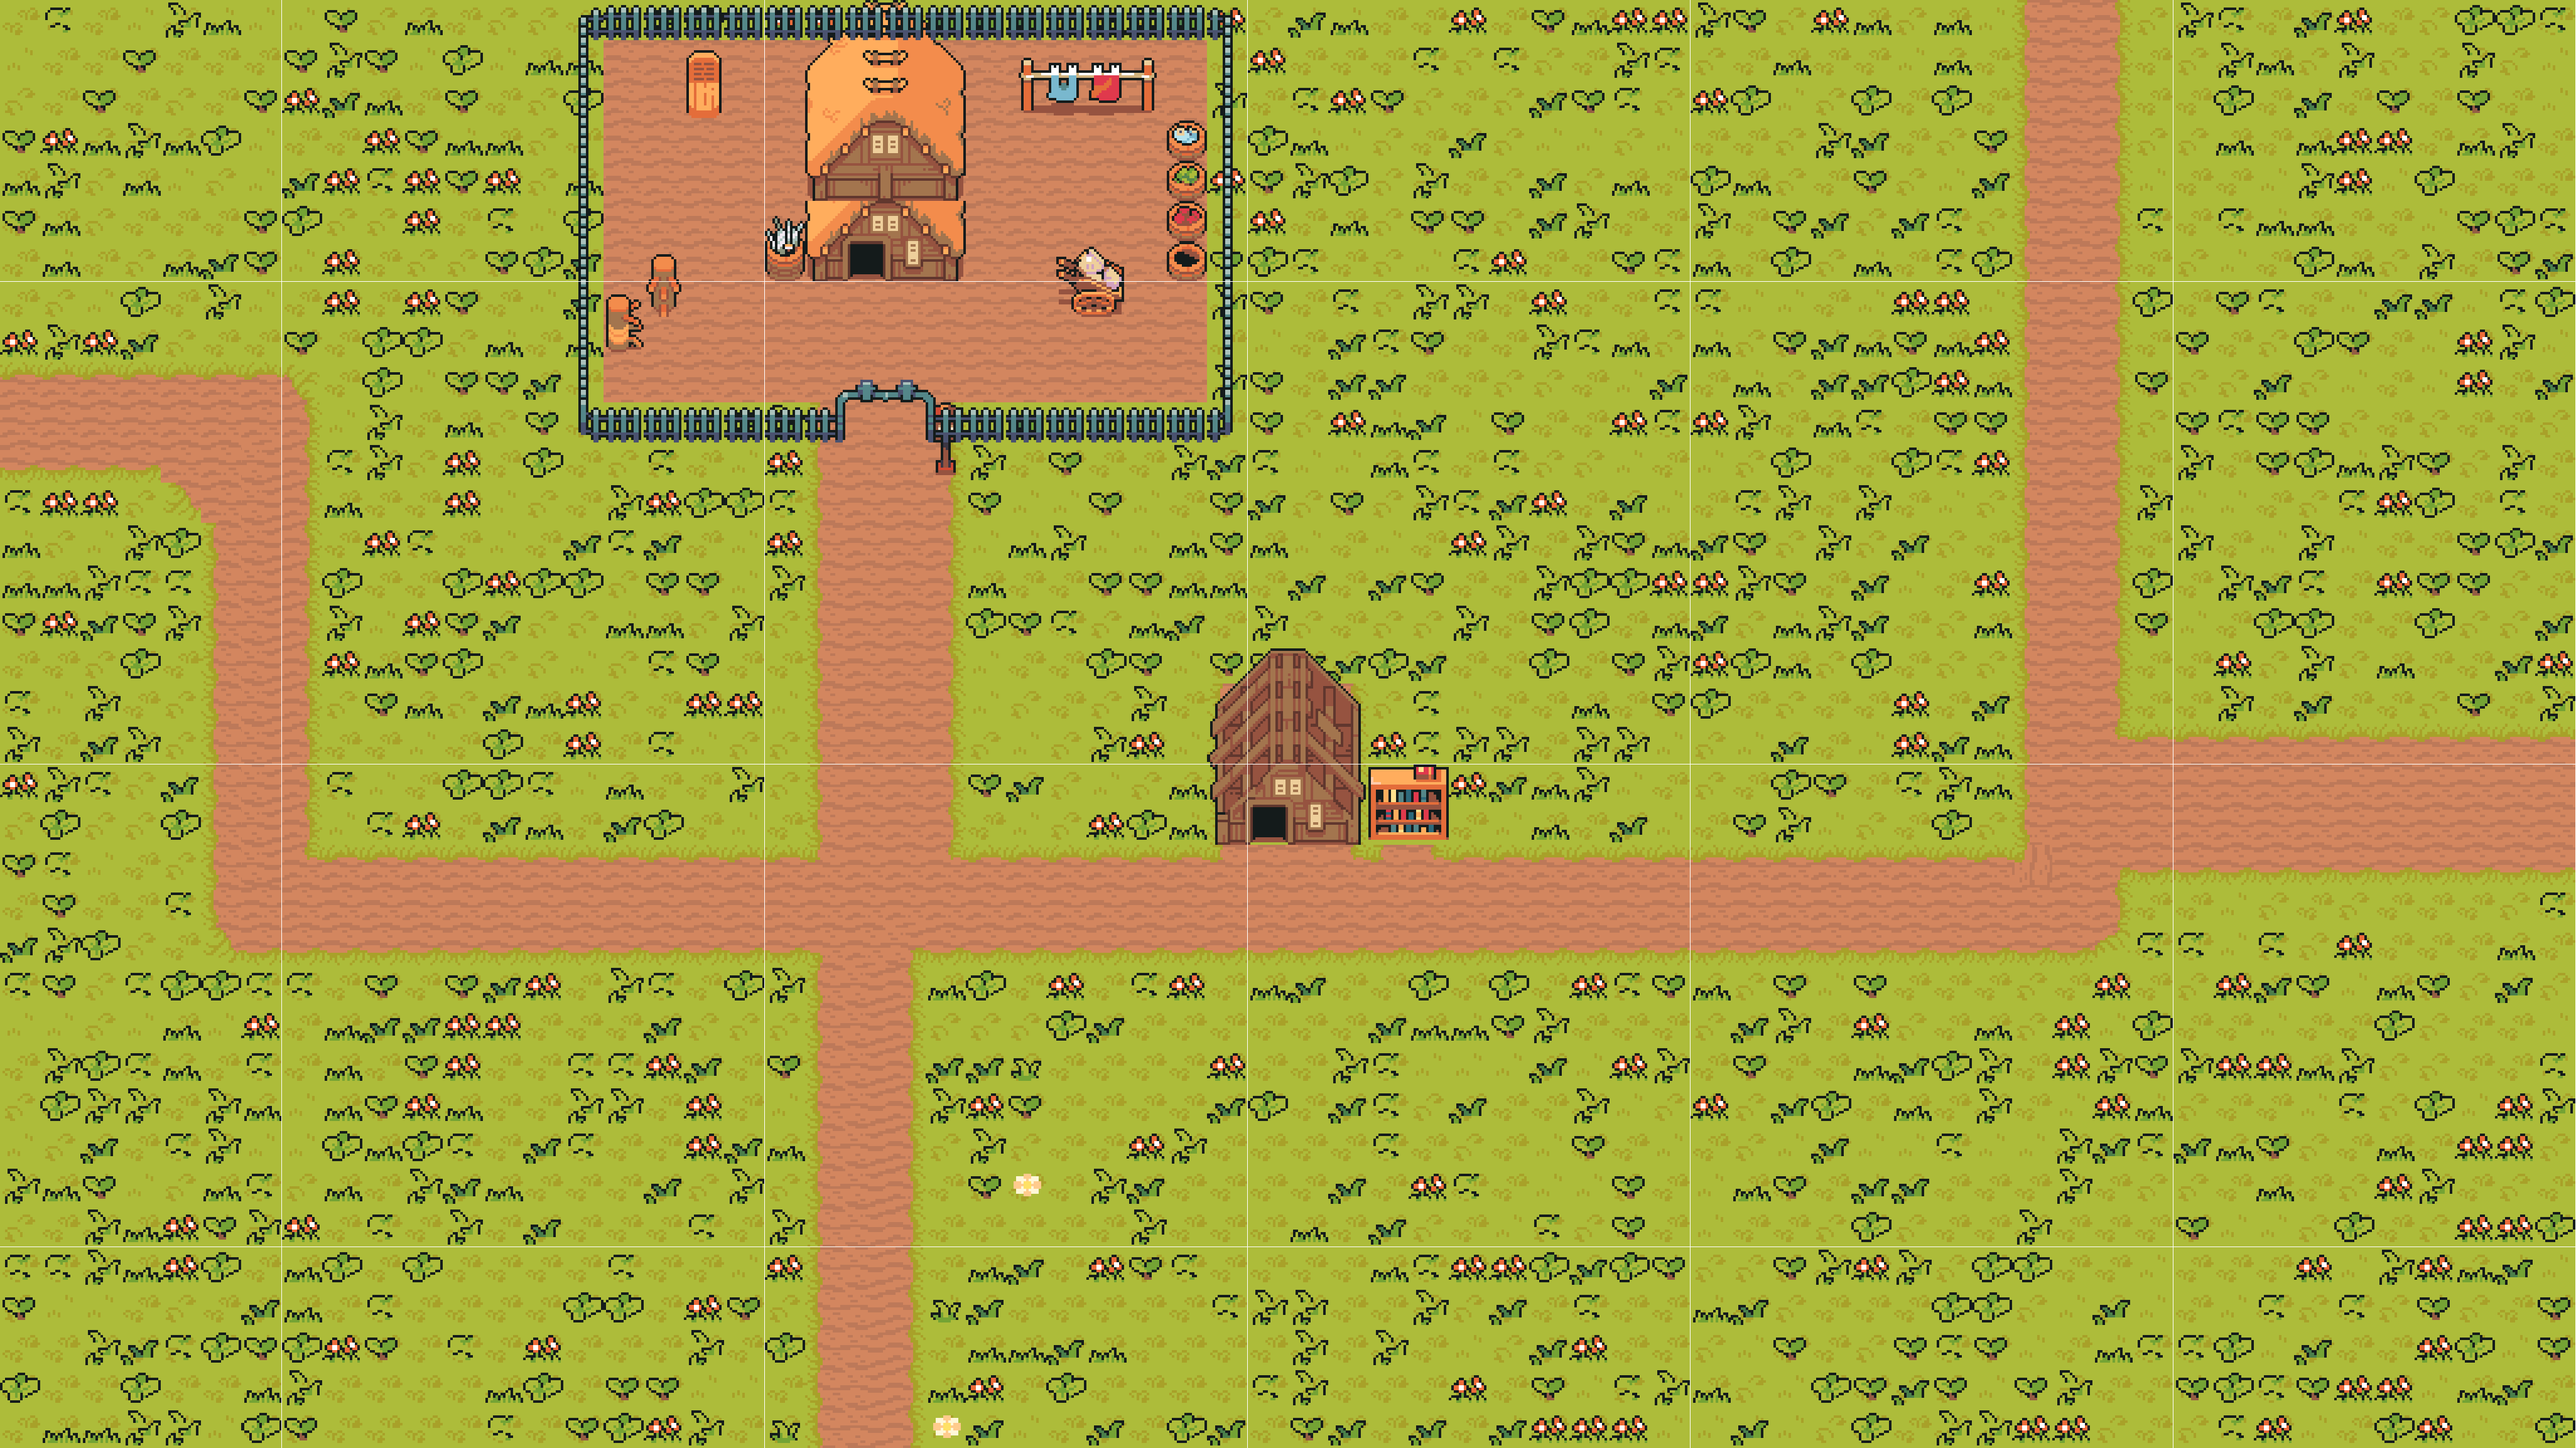
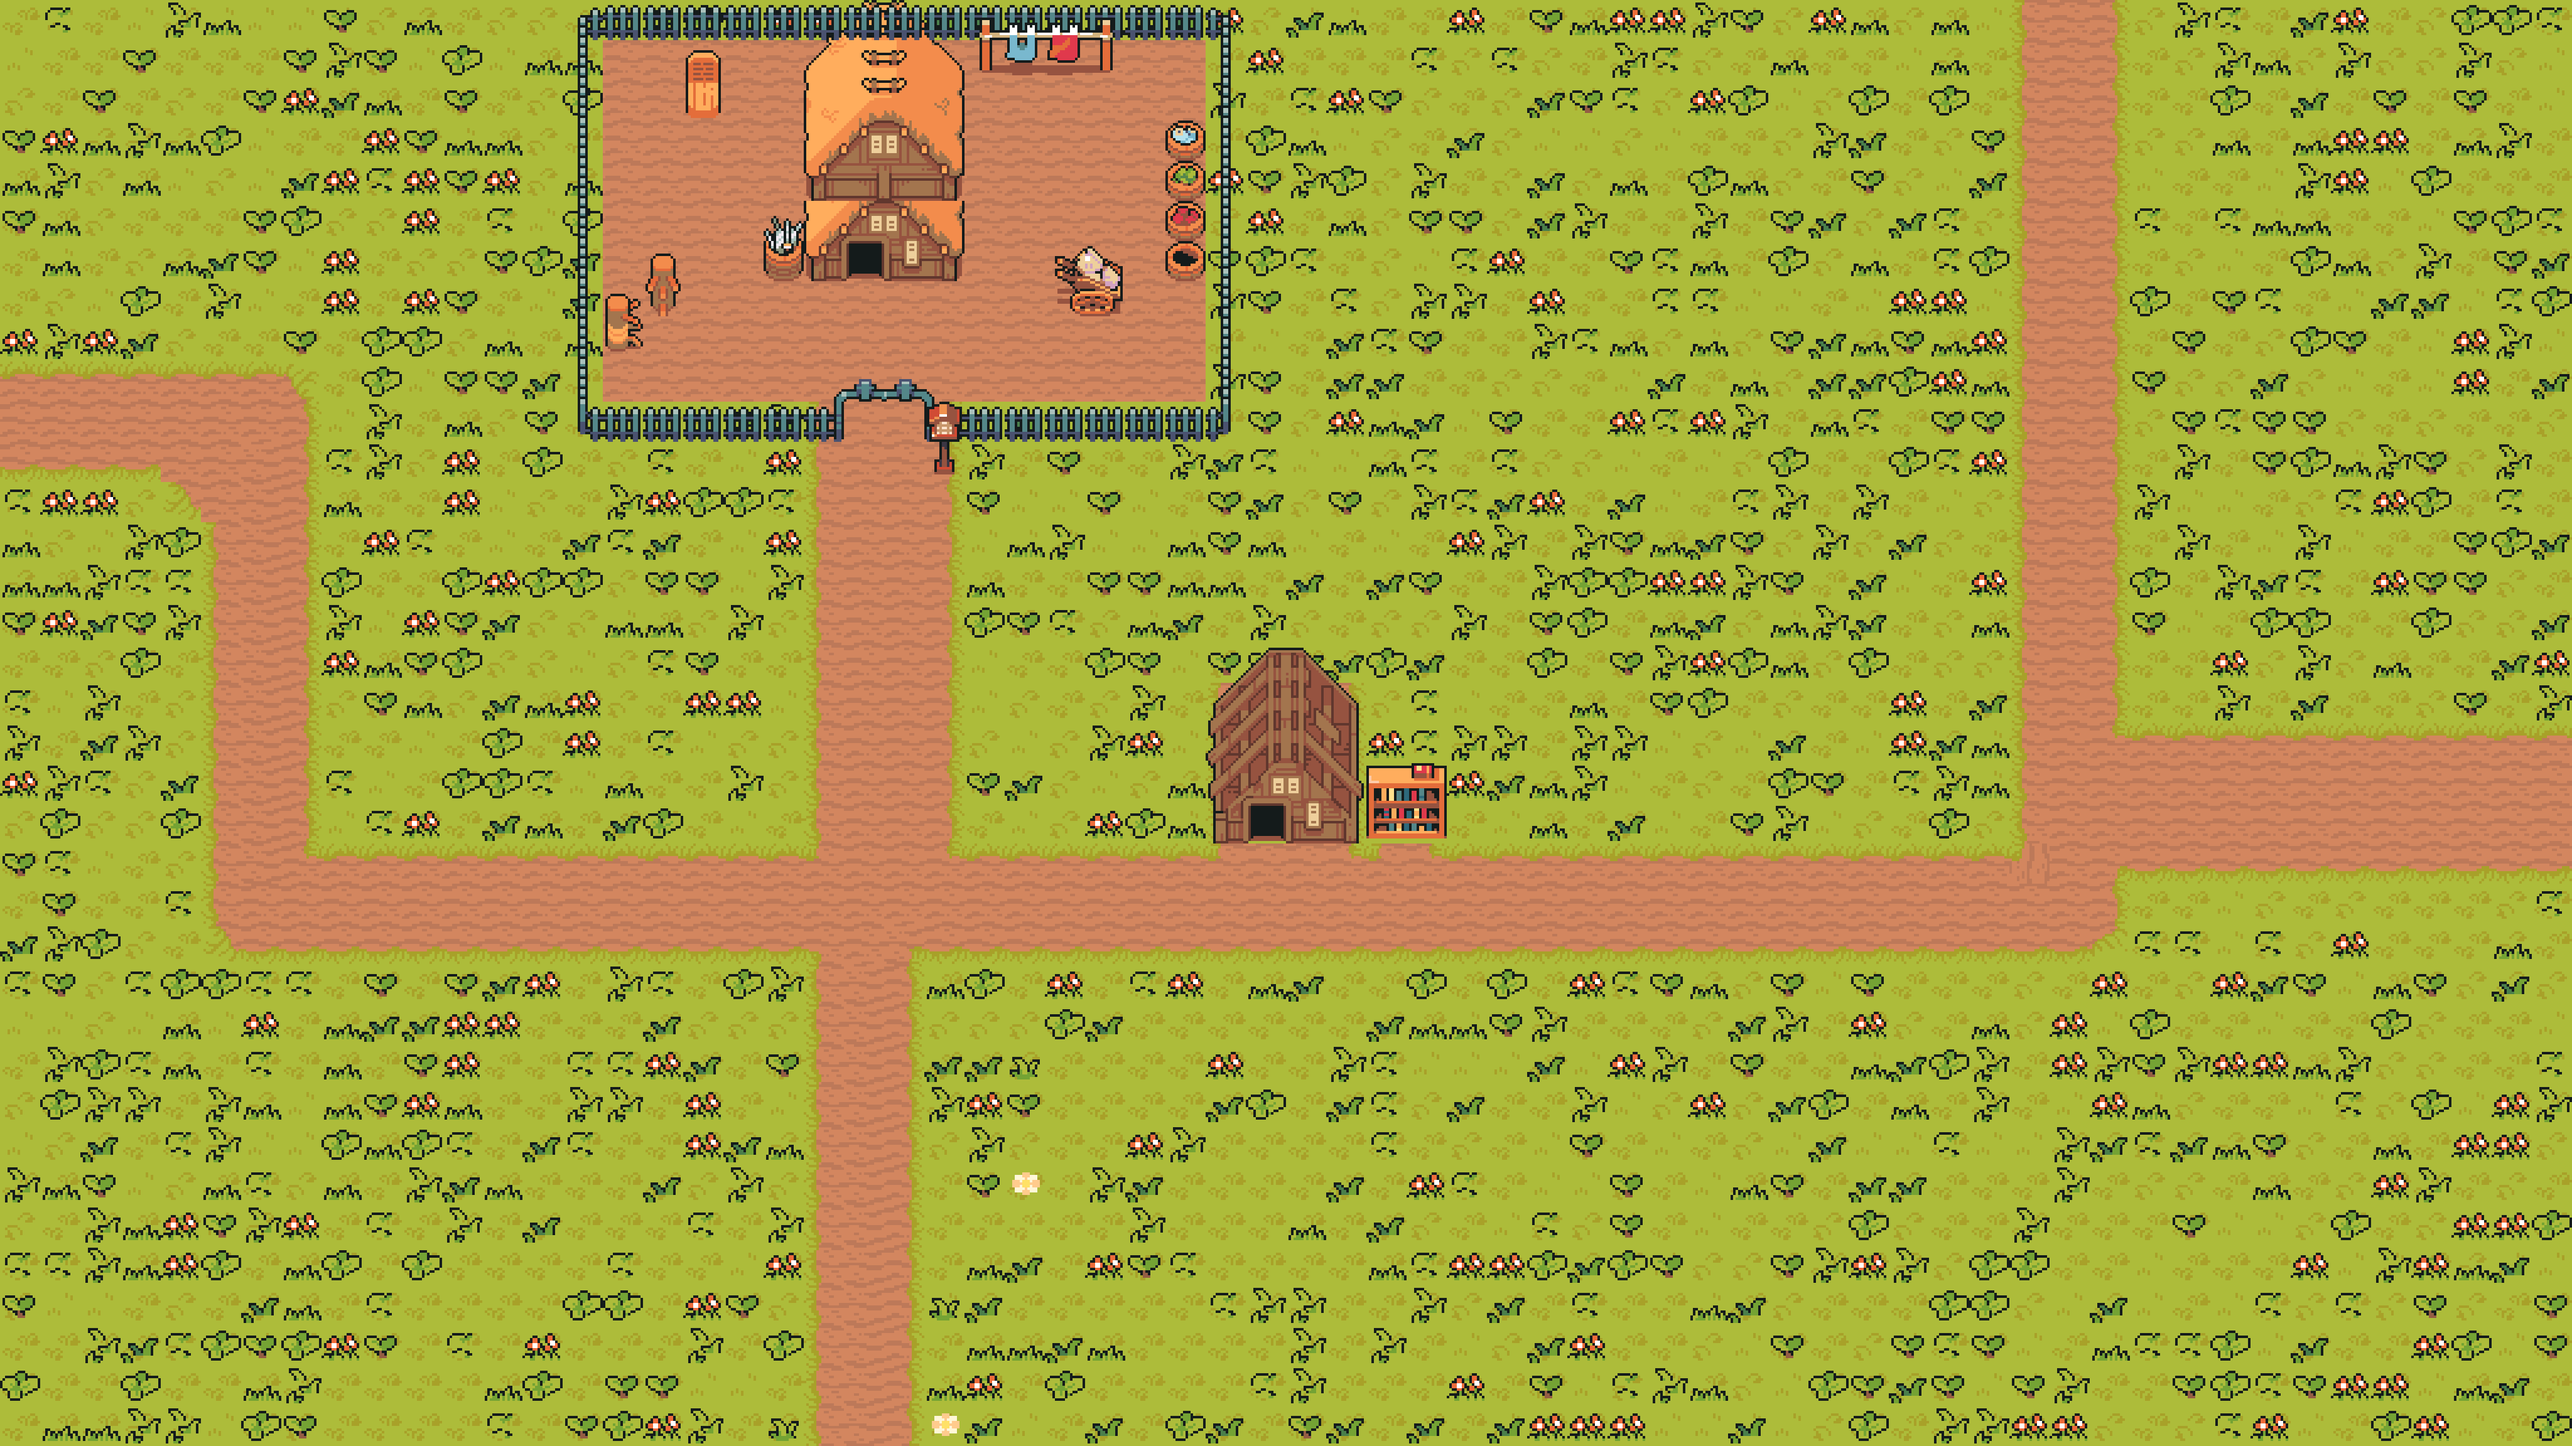
fixed a few foreground and floor accessories errors for map

diff --git a/game/data/collisions.js b/game/data/collisions.js
@@ -1,12 +1,12 @@
 const collisions = [0, 0, 0, 0, 0, 0, 0, 0, 0, 0, 0, 0, 0, 0, 551, 551, 551, 551, 551, 551, 551, 551, 551, 551, 551, 551, 551, 551, 551, 551, 551, 0, 0, 0, 0, 0, 0, 0, 0, 0, 0, 0, 0, 0, 0, 0, 0, 0, 0, 551, 0, 0, 0, 551, 0, 0, 0, 0, 0, 0, 0, 0, 0, 0,
+    0, 0, 0, 0, 0, 0, 0, 0, 0, 0, 0, 0, 0, 0, 551, 0, 0, 551, 0, 0, 551, 0, 0, 551, 0, 0, 0, 0, 0, 0, 551, 0, 0, 0, 0, 0, 0, 0, 0, 0, 0, 0, 0, 0, 0, 0, 0, 0, 0, 551, 0, 0, 0, 551, 0, 0, 0, 0, 0, 0, 0, 0, 0, 0,
     0, 0, 0, 0, 0, 0, 0, 0, 0, 0, 0, 0, 0, 0, 551, 0, 0, 0, 0, 0, 551, 0, 0, 551, 0, 0, 0, 0, 0, 0, 551, 0, 0, 0, 0, 0, 0, 0, 0, 0, 0, 0, 0, 0, 0, 0, 0, 0, 0, 551, 0, 0, 0, 551, 0, 0, 0, 0, 0, 0, 0, 0, 0, 0,
-    0, 0, 0, 0, 0, 0, 0, 0, 0, 0, 0, 0, 0, 0, 551, 0, 0, 0, 0, 0, 551, 0, 0, 551, 551, 551, 551, 551, 0, 0, 551, 0, 0, 0, 0, 0, 0, 0, 0, 0, 0, 0, 0, 0, 0, 0, 0, 0, 0, 551, 0, 0, 0, 551, 0, 0, 0, 0, 0, 0, 0, 0, 0, 0,
     0, 0, 0, 0, 0, 0, 0, 0, 0, 0, 0, 0, 0, 0, 551, 0, 0, 0, 0, 0, 551, 0, 0, 551, 0, 0, 0, 0, 0, 551, 551, 0, 0, 0, 0, 0, 0, 0, 0, 0, 0, 0, 0, 0, 0, 0, 0, 0, 0, 551, 0, 0, 0, 551, 0, 0, 0, 0, 0, 0, 0, 0, 0, 0,
     0, 0, 0, 0, 0, 0, 0, 0, 0, 0, 0, 0, 0, 0, 551, 0, 0, 0, 0, 0, 551, 0, 0, 551, 0, 0, 0, 0, 0, 551, 551, 0, 0, 0, 0, 0, 0, 0, 0, 0, 0, 0, 0, 0, 0, 0, 0, 0, 0, 551, 0, 0, 0, 551, 0, 0, 0, 0, 0, 0, 0, 0, 0, 0,
     0, 0, 0, 0, 0, 0, 0, 0, 0, 0, 0, 0, 0, 0, 551, 0, 0, 0, 0, 0, 551, 551, 551, 551, 0, 0, 0, 0, 0, 551, 551, 0, 0, 0, 0, 0, 0, 0, 0, 0, 0, 0, 0, 0, 0, 0, 0, 0, 0, 551, 0, 0, 0, 551, 0, 0, 0, 0, 0, 0, 0, 0, 0, 0,
-    0, 0, 0, 0, 0, 0, 0, 0, 0, 0, 0, 0, 0, 0, 551, 0, 0, 0, 0, 551, 0, 0, 0, 0, 0, 0, 0, 0, 0, 551, 551, 0, 0, 0, 0, 0, 0, 0, 0, 0, 0, 0, 0, 0, 0, 0, 0, 0, 0, 551, 0, 0, 0, 551, 0, 0, 0, 0, 0, 0, 0, 0, 0, 0,
-    551, 551, 551, 551, 551, 551, 551, 551, 551, 0, 0, 0, 0, 0, 551, 0, 551, 0, 0, 0, 0, 0, 0, 0, 0, 0, 551, 551, 0, 0, 551, 0, 0, 0, 0, 0, 0, 0, 0, 0, 0, 0, 0, 0, 0, 0, 0, 0, 0, 551, 0, 0, 0, 551, 0, 0, 0, 0, 0, 0, 0, 0, 0, 0,
-    0, 0, 0, 0, 0, 0, 0, 0, 551, 0, 0, 0, 0, 0, 551, 551, 0, 0, 0, 0, 0, 0, 0, 0, 0, 0, 0, 0, 0, 0, 551, 0, 0, 0, 0, 0, 0, 0, 0, 0, 0, 0, 0, 0, 0, 0, 0, 0, 0, 551, 0, 0, 0, 551, 0, 0, 0, 0, 0, 0, 0, 0, 0, 0,
+    0, 0, 0, 0, 0, 0, 0, 0, 0, 0, 0, 0, 0, 0, 551, 0, 551, 0, 0, 551, 0, 0, 0, 0, 0, 0, 0, 0, 0, 551, 551, 0, 0, 0, 0, 0, 0, 0, 0, 0, 0, 0, 0, 0, 0, 0, 0, 0, 0, 551, 0, 0, 0, 551, 0, 0, 0, 0, 0, 0, 0, 0, 0, 0,
+    551, 551, 551, 551, 551, 551, 551, 551, 551, 0, 0, 0, 0, 0, 551, 551, 0, 0, 0, 0, 0, 0, 0, 0, 0, 0, 551, 551, 0, 0, 551, 0, 0, 0, 0, 0, 0, 0, 0, 0, 0, 0, 0, 0, 0, 0, 0, 0, 0, 551, 0, 0, 0, 551, 0, 0, 0, 0, 0, 0, 0, 0, 0, 0,
+    0, 0, 0, 0, 0, 0, 0, 0, 551, 0, 0, 0, 0, 0, 551, 0, 0, 0, 0, 0, 0, 0, 0, 0, 0, 0, 0, 0, 0, 0, 551, 0, 0, 0, 0, 0, 0, 0, 0, 0, 0, 0, 0, 0, 0, 0, 0, 0, 0, 551, 0, 0, 0, 551, 0, 0, 0, 0, 0, 0, 0, 0, 0, 0,
     0, 0, 0, 0, 0, 0, 0, 0, 551, 0, 0, 0, 0, 0, 551, 0, 0, 0, 0, 0, 0, 0, 0, 0, 0, 0, 0, 0, 0, 0, 551, 0, 0, 0, 0, 0, 0, 0, 0, 0, 0, 0, 0, 0, 0, 0, 0, 0, 0, 551, 0, 0, 0, 551, 0, 0, 0, 0, 0, 0, 0, 0, 0, 0,
     0, 0, 0, 0, 0, 0, 0, 0, 551, 0, 0, 0, 0, 0, 551, 551, 551, 551, 551, 551, 551, 0, 0, 551, 551, 551, 551, 551, 551, 551, 551, 0, 0, 0, 0, 0, 0, 0, 0, 0, 0, 0, 0, 0, 0, 0, 0, 0, 0, 551, 0, 0, 0, 551, 0, 0, 0, 0, 0, 0, 0, 0, 0, 0,
     0, 0, 0, 0, 0, 0, 0, 0, 551, 0, 0, 0, 0, 0, 0, 0, 0, 0, 0, 551, 0, 0, 0, 551, 551, 0, 0, 0, 0, 0, 0, 0, 0, 0, 0, 0, 0, 0, 0, 0, 0, 0, 0, 0, 0, 0, 0, 0, 0, 551, 0, 0, 0, 551, 0, 0, 0, 0, 0, 0, 0, 0, 0, 0,

diff --git a/game/index.js b/game/index.js
@@ -12,12 +12,14 @@ for(let i = 0; i < collisions.length; i += 64) {
     collisionMap.push(collisions.slice(i, i + 64))
 }
 
+// set boundary coordinates
 const boundaries = []
 const offset = {
     x: -1550,
     y: -1000
 }
 
+// set collisions onto map
 collisionMap.forEach((row, i) => {
     row.forEach((symbol, j)  => {
         if(symbol === 551)
@@ -32,27 +34,31 @@ collisionMap.forEach((row, i) => {
     })
 })
 
-
 // Load in outside map image
 const image = new Image();
 image.src = './gameAssets/OutsideMap.png';
 
+// Load in foreground map image
 const foregroundImage = new Image();
 foregroundImage.src = './gameAssets/foreground.png';
 
-// Load in player image
+// Load in player DOWN image
 const playerDownImage = new Image();
 playerDownImage.src = './gameAssets/playerDown.png';
 
+// Load in player UP sprite
 const playerUpImage = new Image();
 playerUpImage.src = './gameAssets/playerUp.png';
 
+// Load in player LEFT sprite
 const playerLeftImage = new Image();
 playerLeftImage.src = './gameAssets/playerLeft.png';
 
+// Load in player RIGHT sprite
 const playerRightImage = new Image();
 playerRightImage.src = './gameAssets/playerRight.png';
 
+// Create player sprite
 const player = new Sprite({
     position: {
         x: 400,
@@ -70,6 +76,7 @@ const player = new Sprite({
     }
 })
 
+// set background image coordinates
 const background = new Sprite({
     position: {
         x: -1550,
@@ -78,6 +85,7 @@ const background = new Sprite({
     image: image
 })
 
+// set foreground image coordinates
 const foreground = new Sprite({
     position: {
         x: -1550,
@@ -86,6 +94,7 @@ const foreground = new Sprite({
     image: foregroundImage
 })
 
+// which key is pressed
 const keys ={
     w: {
         pressed: false
@@ -101,8 +110,10 @@ const keys ={
     }
 }
 
+// movable objects
 const movables = [background, ...boundaries, foreground]
 
+// collision bounds set
 function rectangularCollision({rectangle1, rectangle2}) {
     return (
         rectangle1.position.x + rectangle1.width >= rectangle2.position.x
@@ -112,6 +123,7 @@ function rectangularCollision({rectangle1, rectangle2}) {
     )
 }
 
+// animation loop that controls movement of the sprite and map
 function animate() {
     // infinite loop
     window.requestAnimationFrame(animate)
@@ -241,7 +253,7 @@ function animate() {
 }
 animate()
 
-// gets what key was pressed
+// key down event listener
 let lastKey = ''
 window.addEventListener('keydown', (e) => {
     switch(e.key) {
@@ -264,6 +276,7 @@ window.addEventListener('keydown', (e) => {
     }
 })
 
+// Key up event listener
 window.addEventListener('keyup', (e) => {
     switch(e.key) {
         case 'w':

diff --git a/game/classes.js b/game/classes.js
@@ -1,3 +1,4 @@
+// Boundary class
 class Boundary {
     static width = 64
     static height = 64
@@ -13,7 +14,7 @@ class Boundary {
     }
 }
 
-// Sprite
+// Sprite class for map and player
 class Sprite {
     constructor({ position, velocity, image, frames = { max: 1 }, sprites}) {
         this.position = position
@@ -56,41 +57,3 @@ class Sprite {
         }
     }
 }
-
-// Player sprite
-// class PlayerSprite extends Sprite {
-//     constructor(options) {
-//         super(options);
-//     }
-//
-//     draw() {
-//         c.drawImage(
-//             this.image,
-//             this.frames.val * this.width, // crop position
-//             0, // crop position
-//             this.image.width / this.frames.max, // crop width
-//             this.image.height, // crop height
-//             this.position.x, // actual coordinates
-//             this.position.y,
-//             this.image.width, // actual width and height, scaled
-//             this.image.height
-//         );
-//         // if(!this.moving) {
-//         //     console.log(this.moving)
-//         //     this.division = 1
-//         //     return
-//         // }
-//
-//         if(this.frames.max > 1) {
-//             this.frames.elapsed++
-//         }
-//
-//         if(this.frames.elapsed % 10 === 0) {
-//             if(this.frames.val < this.frames.max - 1) this.frames.val++
-//             else {
-//                 this.frames.val = 0
-//                 this.frames.row++
-//             }
-//         }
-//     }
-// }
